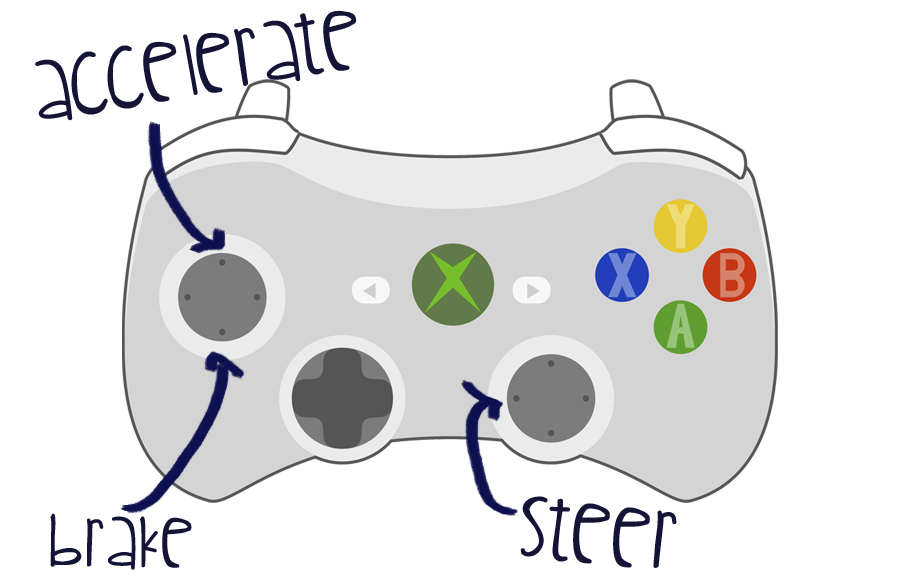
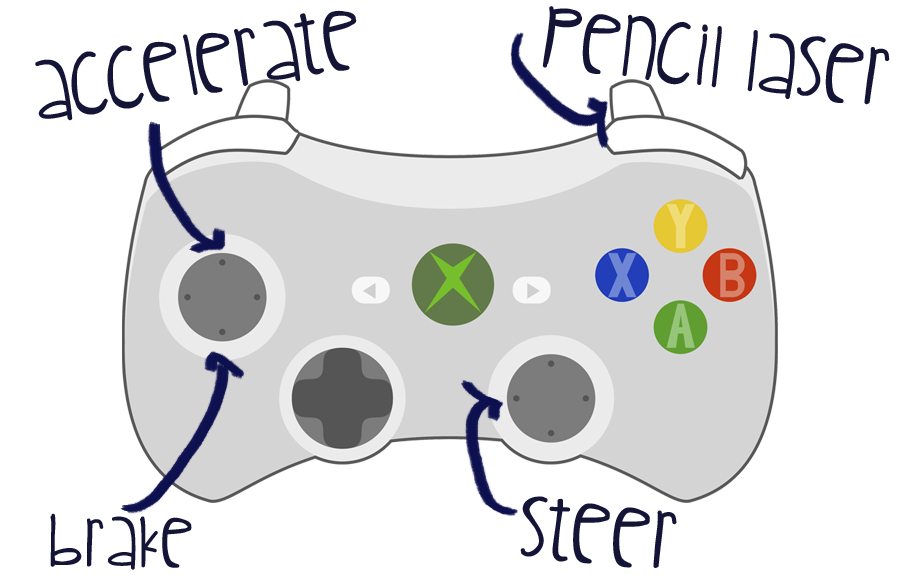
- images for background story and powerups - ready is still - bullet with right trigger

Changed region(s): [[0.56, 0.0, 0.9956, 0.2478]]

diff --git a/WindowsGame2/WindowsGame2/WindowsGame2/Screens/LoadingScreen.cs b/WindowsGame2/WindowsGame2/WindowsGame2/Screens/LoadingScreen.cs
@@ -41,21 +41,25 @@ namespace WindowsGame2
             _switchTip = content.Load<Texture2D>("Images/PimpScreen/tutorialSwitchMessage");
             _readyToPlayMessage = content.Load<Texture2D>("Images/PimpScreen/startGameMessage");
 
-            _tutorials = new Texture2D[4];
-            _tutorials[0] = content.Load<Texture2D>("Images/PimpScreen/game_controls");
-            _tutorials[1] = content.Load<Texture2D>("Images/PimpScreen/tutorial1");
-            _tutorials[2] = content.Load<Texture2D>("Images/PimpScreen/tutorial2");
-            _tutorials[3] = content.Load<Texture2D>("Images/PimpScreen/tutorial3");
+            _tutorials = new Texture2D[6];
+            _tutorials[0] = content.Load<Texture2D>("Images/PimpScreen/tutorial0");
+            _tutorials[1] = content.Load<Texture2D>("Images/PimpScreen/game_controls");
+            _tutorials[2] = content.Load<Texture2D>("Images/PimpScreen/tutorial1");
+            _tutorials[3] = content.Load<Texture2D>("Images/PimpScreen/tutorial2");
+            _tutorials[4] = content.Load<Texture2D>("Images/PimpScreen/tutorial3");
+            _tutorials[5] = content.Load<Texture2D>("Images/PimpScreen/tutorial4");
 
             Viewport viewport = ScreenManager.GraphicsDevice.Viewport;
             _currentPosition = new Rectangle(1920/2 - 300, 1080/2 - 500, 600, 150);
             _switchTipPosition = new Rectangle(1920 / 2 - 850, 1080 / 2 + 400, 500, 150);
 
-            _tutorialsPosition = new Rectangle[4];
-            _tutorialsPosition[0] = new Rectangle(1920 / 2 - 450, 1080 / 2 - 300, 900, 581);
-            _tutorialsPosition[1] = new Rectangle(0, 0, 1920, 1080);
+            _tutorialsPosition = new Rectangle[6];
+            _tutorialsPosition[0] = new Rectangle(0, 0, 1920, 1080); 
+            _tutorialsPosition[1] = new Rectangle(1920 / 2 - 450, 1080 / 2 - 300, 900, 581);
             _tutorialsPosition[2] = new Rectangle(0, 0, 1920, 1080);
             _tutorialsPosition[3] = new Rectangle(0, 0, 1920, 1080);
+            _tutorialsPosition[4] = new Rectangle(0, 0, 1920, 1080);
+            _tutorialsPosition[5] = new Rectangle(0, 0, 1920, 1080);
 
             _currentTexture = _loadingMessage;
 

diff --git a/WindowsGame2/WindowsGame2/WindowsGame2/Screens/SandboxScreen.cs b/WindowsGame2/WindowsGame2/WindowsGame2/Screens/SandboxScreen.cs
@@ -41,6 +41,7 @@ namespace WindowsGame2.Screens
         private const string message = "ready";
         private Texture2D readyTexture;
         private bool[] readyCars = new bool[4];
+        private Vector2[] readyPos = new Vector2[4];
         private int _carsCount;
         private int _readyCount;
 
@@ -198,14 +199,18 @@ namespace WindowsGame2.Screens
                 _cars[i].Draw(ScreenManager.SpriteBatch);
                 if (readyCars[i])
                 {
-                    Vector2 pos = (screenCenter - _cars[i].Position);
-                    pos.Normalize();
-                    if (pos.X < 0) pos.X -= readyTexture.Width;
-                    else pos.X += readyTexture.Width / 2;
-                    if (pos.Y < 0) pos.Y -= readyTexture.Height;
-                    else pos.Y += readyTexture.Height / 2;
-                    pos += _cars[i].Position;
-                    ScreenManager.SpriteBatch.Draw(readyTexture, pos, null, _cars[i].color);
+                    if (readyPos[i].X == 0 && readyPos[i].Y == 0)
+                    {
+                        Vector2 pos = (screenCenter - _cars[i].Position);
+                        pos.Normalize();
+                        if (pos.X < 0) pos.X -= readyTexture.Width;
+                        else pos.X += readyTexture.Width / 2;
+                        if (pos.Y < 0) pos.Y -= readyTexture.Height;
+                        else pos.Y += readyTexture.Height / 2;
+                        pos += _cars[i].Position;
+                        readyPos[i] = pos;
+                    }
+                    ScreenManager.SpriteBatch.Draw(readyTexture, readyPos[i], null, _cars[i].color);
                 }
             }
 

diff --git a/WindowsGame2/WindowsGame2/WindowsGame2/GameElements/Car.cs b/WindowsGame2/WindowsGame2/WindowsGame2/GameElements/Car.cs
@@ -603,7 +603,7 @@ namespace WindowsGame2.GameElements
 
 
 
-            if (ks.IsKeyDown(Keys.R) && blueOnly || gps.Buttons.A >0 )
+            if (ks.IsKeyDown(Keys.R) && blueOnly || gps.Triggers.Right > 0.5 )
             {
                 if (bulletIsShot == false)
                 {
